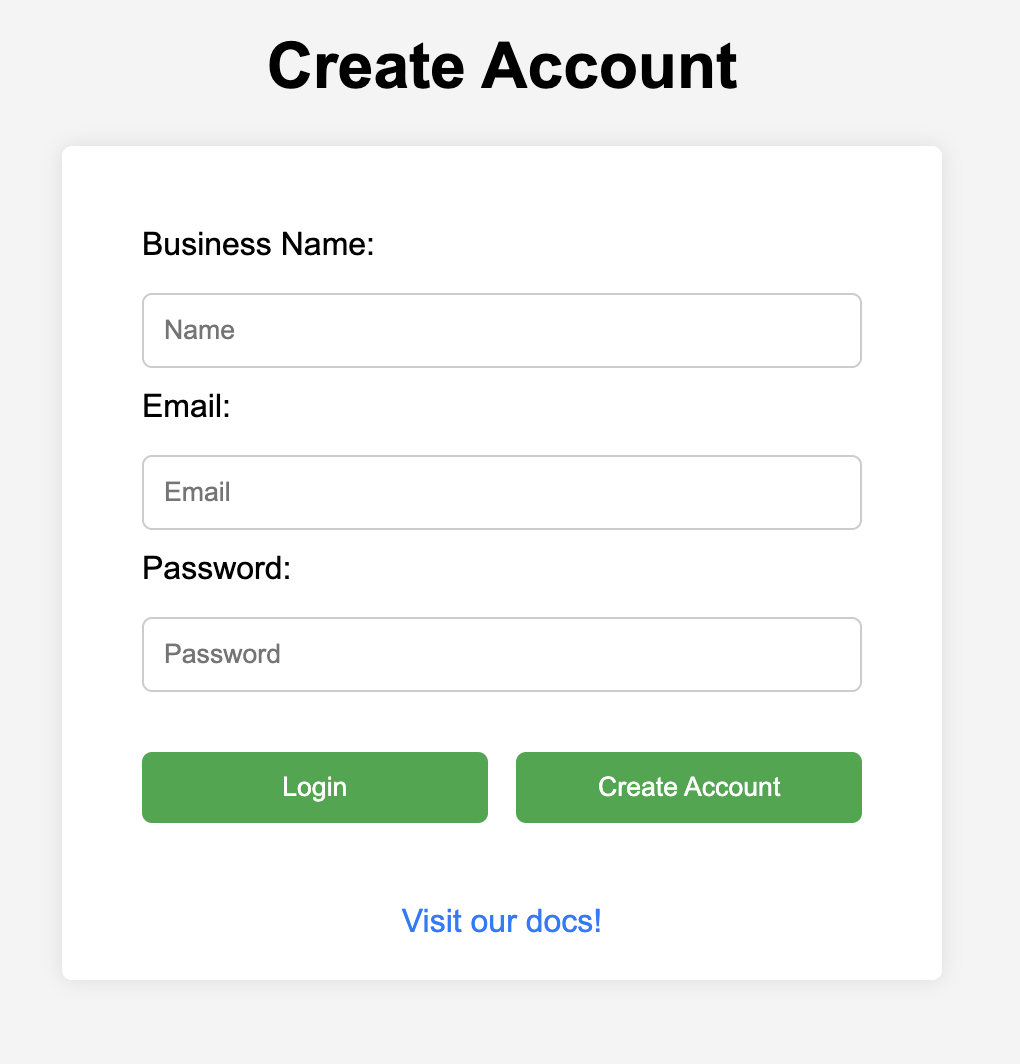
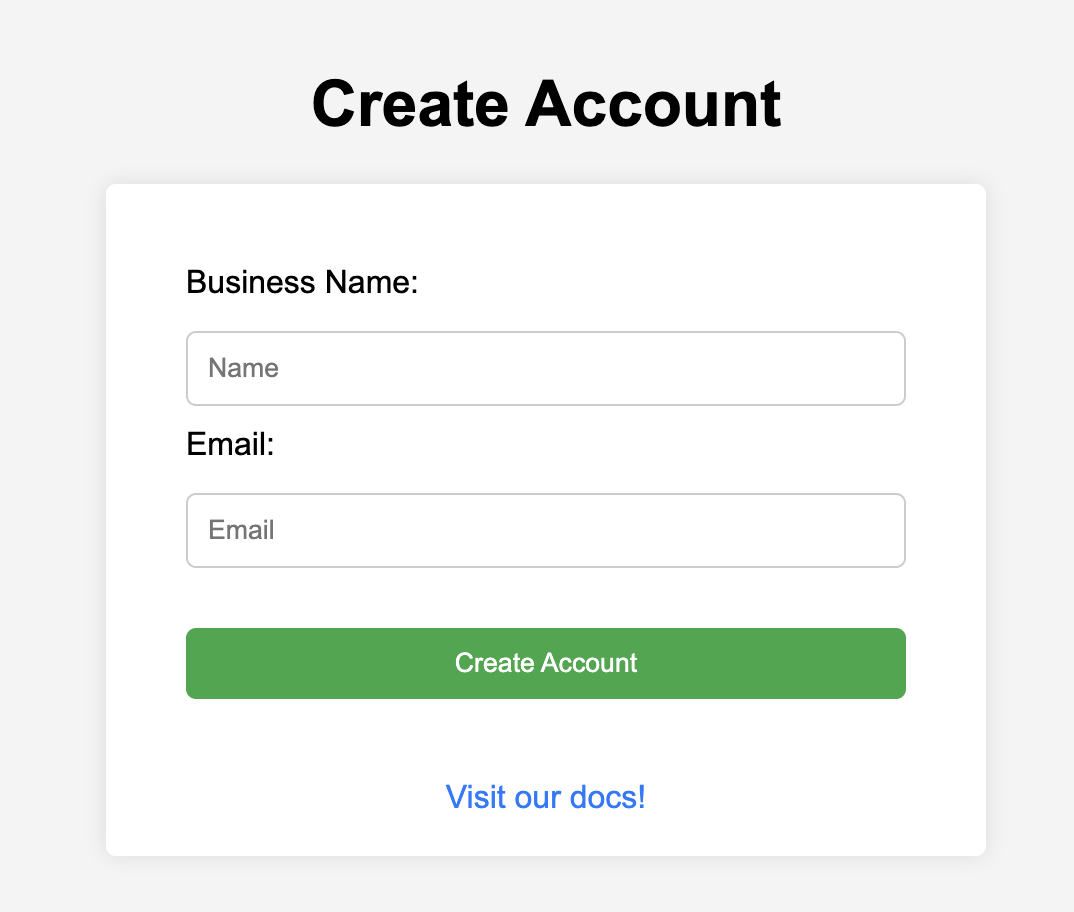
simplify

diff --git a/javascript/create-account-and-user-invitation/index.html b/javascript/create-account-and-user-invitation/index.html
@@ -9,33 +9,9 @@
             const form = document.querySelector("form");
             form.addEventListener("submit", function(event) {
                 event.preventDefault();
-                // check if login or create account
-                const isLogin = event.submitter.value === "Login";
                 const name = form["name"].value;
                 const email = form["email"].value;
                 
-                if (isLogin) {
-                    // login
-                    fetch('/login', {
-                        method: 'POST',
-                        headers: {
-                            'Content-Type': 'application/json'
-                        },
-                        body: JSON.stringify({ email, password: form["password"].value })
-                    }).then(response => {
-                        if (response.ok) {
-                            alert("Login successful!");
-                        } else {
-                            alert("Error logging in.");
-                        }
-                        return response.json();
-                    })
-                    .catch(error => {
-                        console.error('Error:', error);
-                        alert("Error logging in.");
-                    });
-                } else {
-                    // Create account
 
                 fetch('/create-account', {
                     method: 'POST',
@@ -62,8 +38,8 @@
                 .catch(error => {
                     console.error('Error:', error);
                     alert("Error creating account.");
-                });}
-            });
+                });
+        });
         });
     </script>
     <style>
@@ -97,8 +73,7 @@
             margin-bottom: 5px;
         }
         input[type="text"],
-        input[type="email"],
-        input[type="password"] {
+        input[type="email"] {
             padding: 10px;
             border-radius: 5px;
             border: 1px solid #ccc;
@@ -115,19 +90,14 @@
         input[type="submit"]:hover {
             background-color: #218838;
         }
-        form>div {
-            display: flex;
-            justify-content: space-between;
-        }
-        form>div>input[type="submit"] {
-            width: 48%;
-        }
         a {
             display: block;
-            text-align: center;
-            margin-top: 20px;
             color: #007bff;
             text-decoration: none;
+        }
+        main > a {
+            text-align: center;
+            margin-top: 20px;
         }
     </style>
 </head>
@@ -141,12 +111,7 @@
             <input type="text" name="name" placeholder="Name" required>
             <label for="email">Email:</label>
             <input type="email" name="email" placeholder="Email" required>
-            <label for="password">Password:</label>
-            <input type="password" name="password" placeholder="Password" required>
-            <div>
-            <input type="submit" value="Login">
             <input type="submit" value="Create Account">
-            </div>
         </form>
         <a href="https://docs.tilled.com">Visit our docs!</a>
 </body>

diff --git a/javascript/create-account-and-user-invitation/app.js b/javascript/create-account-and-user-invitation/app.js
@@ -22,34 +22,6 @@ app.get('/', (_, res) => {
     res.sendFile(path.join(__dirname, '/', 'index.html'));
 });
 
-app.post('/login', async (req, res) => {
-    const { email, password } = req.body;
-
-    // Authenticate user: https://docs.tilled.com/api-reference#tag/authentication/POST/v1/auth
-    const authResponse = await fetch(apiUrl + '/v1/auth/login', {
-        method: 'POST',
-        headers: {
-          'Content-Type': 'application/json',
-          'Tilled-Account': tilledAccount,
-          'Tilled-Api-Key': apiKey,
-        },
-        body: JSON.stringify({
-            email,
-            password,
-        })
-      })
-
-    if (authResponse.status === 200) {
-        res.status(200).send({
-            message: 'Login successful',
-            token: authResponse.token, // Assuming the API returns a token
-        });
-    } else {
-        res.status(401).send({
-            message: 'Login failed',
-        });
-    }
-});
 
 app.post('/create-account', async (req, res) => {
     const { name, email, password } = req.body;

diff --git a/javascript/create-account-and-user-invitation/readme.md b/javascript/create-account-and-user-invitation/readme.md
@@ -6,7 +6,6 @@ This repository contains a simple Express application paired with an HTML form. 
 
 ## Features
 
-- **User Login:** Authenticate users by sending their email and password to the Tilled API.
 - **Account Creation:** Create a connected account and send a user invitation using the Tilled API.
 - **Responsive Frontend:** A clean HTML form styled with CSS for entering user details.
 - **Express Backend:** Routes set up for handling login and account creation, along with basic error handling.
@@ -51,10 +50,6 @@ This repository contains a simple Express application paired with an HTML form. 
 - **Access the Form:**  
   Open your browser and navigate to `http://localhost:3000`.
 
-- **Login:**  
-  Enter your email and password, then click the **Login** button.  
-  The app sends a POST request to the `/login` endpoint for authentication.
-
 - **Create Account:**  
   Fill in the full name, email, and password fields, then click the **Create Account** button.  
   The app sends a POST request to the `/create-account` endpoint to:
@@ -67,9 +62,6 @@ This repository contains a simple Express application paired with an HTML form. 
 
 - **GET `/`**  
   Serves the HTML file containing the form.
-
-- **POST `/login`**  
-  Authenticates the user using the Tilled API. Returns a success message and token on successful login, or an error message on failure.
 
 - **POST `/create-account`**  
   Creates a connected account and sends a user invitation using the Tilled API. On success, redirects the user to the invitation URL provided in the response.
